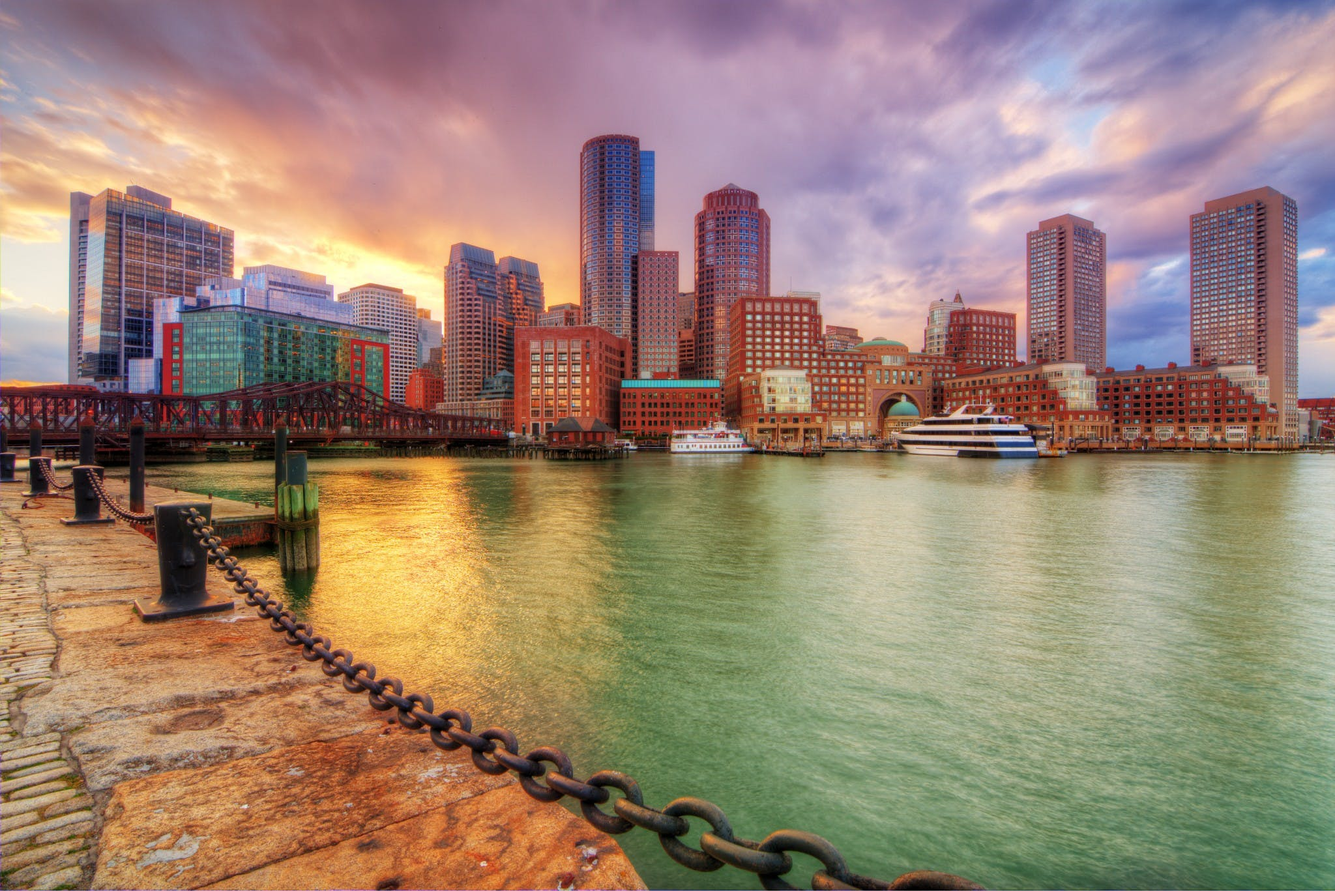
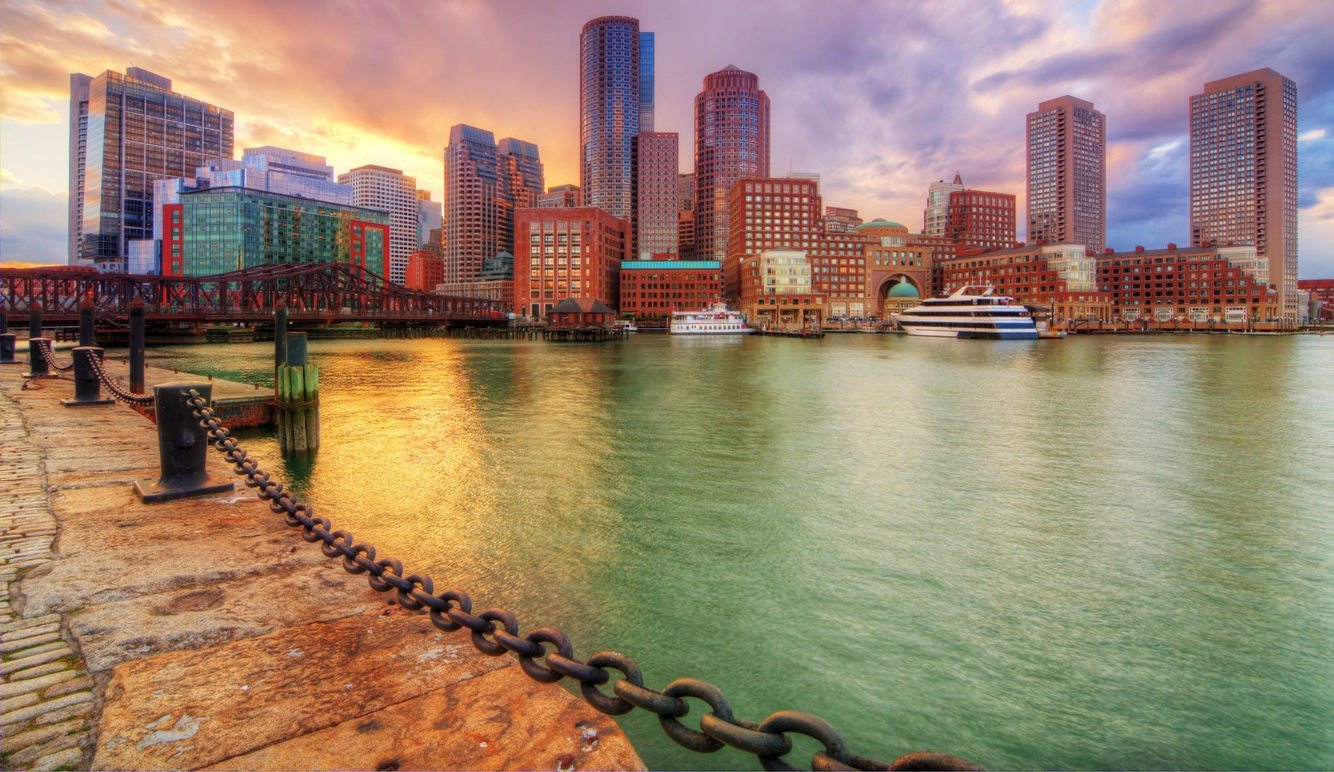
修改主页图片与推荐

diff --git a/src/components/flightPage.vue b/src/components/flightPage.vue
@@ -2175,7 +2175,7 @@ window.ResizeObserver = class ResizeObserver extends _ResizeObserver {
               <div class="col-sm-6">
                 <div class="flight-offer-item offer-item-two">
                   <div class="flight-offer-thumb">
-                    <img src="../assets/img/images/durban.jpg" alt="">
+                    <img src="../assets/img/images/boston.jpg" alt="">
                   </div>
                   <div class="flight-offer-content">
                     <h2 class="title">{{ departs[2] }} to {{ arrivals[2] }}</h2>
@@ -2197,7 +2197,7 @@ window.ResizeObserver = class ResizeObserver extends _ResizeObserver {
               <div class="col-sm-6">
                 <div class="flight-offer-item offer-item-two">
                   <div class="flight-offer-thumb">
-                    <img src="../assets/img/images/tokyo.jpg" alt="">
+                    <img src="../assets/img/images/durban.jpg" alt="">
                   </div>
                   <div class="flight-offer-content">
                     <h2 class="title">{{ departs[1] }} to {{ arrivals[1] }}</h2>
@@ -2219,7 +2219,7 @@ window.ResizeObserver = class ResizeObserver extends _ResizeObserver {
               <div class="col-sm-6">
                 <div class="flight-offer-item offer-item-two">
                   <div class="flight-offer-thumb">
-                    <img src="../assets/img/images/paris.jpg" alt="">
+                    <img src="../assets/img/images/tokyo.jpg" alt="">
                   </div>
                   <div class="flight-offer-content">
                     <h2 class="title">{{ departs[0] }} to {{ arrivals[0] }}</h2>
@@ -2241,7 +2241,7 @@ window.ResizeObserver = class ResizeObserver extends _ResizeObserver {
               <div class="col-sm-6">
                 <div class="flight-offer-item offer-item-two">
                   <div class="flight-offer-thumb">
-                    <img src="../assets/img/images/brussels.jpg" alt="">
+                    <img src="../assets/img/images/baku.jpg" alt="">
                   </div>
                   <div class="flight-offer-content">
                     <h2 class="title">{{ departs[4] }} to {{ arrivals[4] }}</h2>
